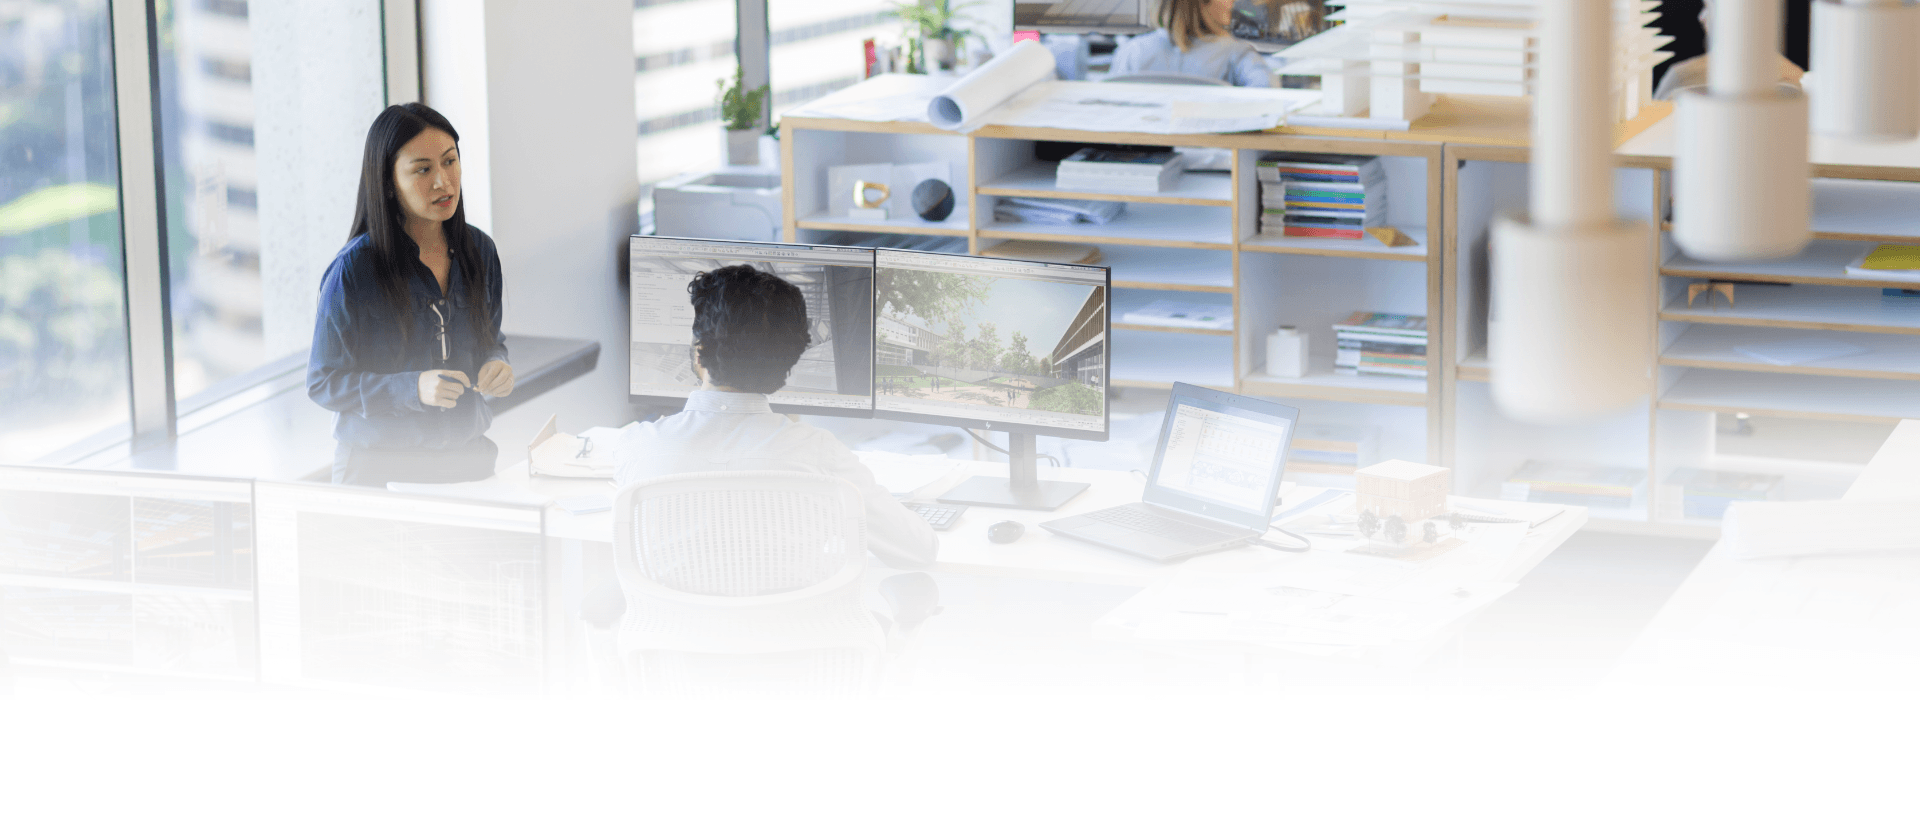
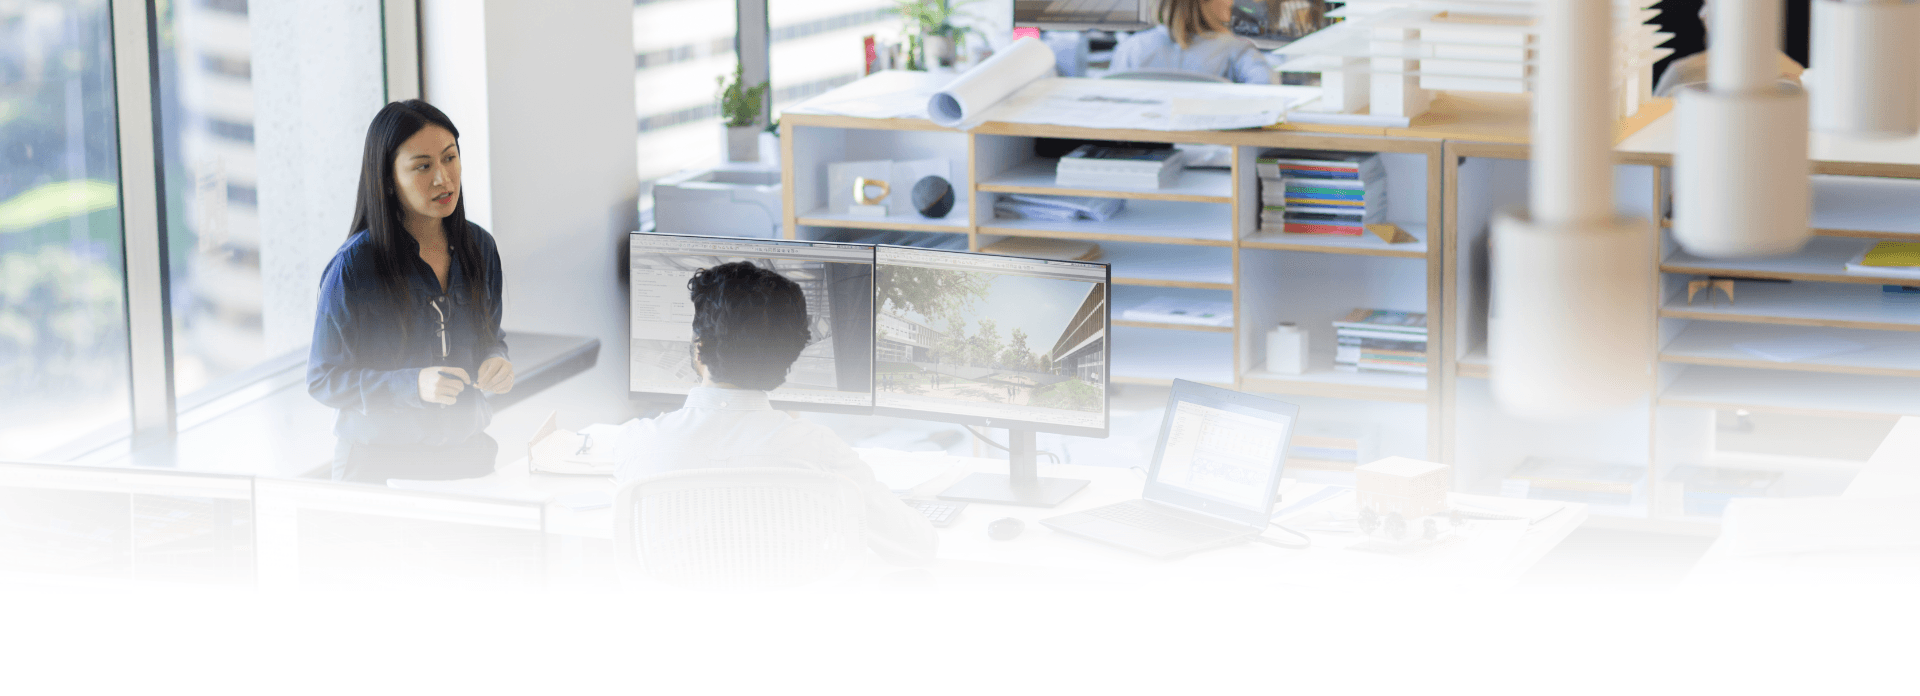
mobile

diff --git a/CSS/main.css b/CSS/main.css
@@ -446,6 +446,15 @@ input {
   justify-content: space-around;
 }
 
+#mobileaccess {
+  display: none;
+}
+
+#mobim {
+  display: none;
+  width: 60%;
+}
+
 
 /*-------HP TWO---------*/
 
@@ -538,7 +547,6 @@ input {
 /*******HP FOUR*******/
 
 .four-wrapper {
-  min-height: 500px;
   margin-top: 20px;
   z-index: 1;
   display: flex;
@@ -547,7 +555,6 @@ input {
 
 .four-wrapper img {
   width: 100%;
-  position: absolute;
 }
 
 .four-flex {
@@ -1077,6 +1084,8 @@ input {
 .products {
   display: flex;
   margin-bottom: 1rem;
+  border-radius: 4px;
+  padding-right: 20px;
 }
 
 .product-text h2 {
@@ -1159,9 +1168,7 @@ input {
   display: flex;
   justify-content: center;
   width: 100%;
-  margin-top: 100px;
   margin-bottom: 200px;
-  max-height: 13rem;
 }
 
 .requestcontent {
@@ -1600,6 +1607,7 @@ footer .norm {
 }
 
 
+
 /*=============contact---------------*/
 
 .conwrap {
@@ -1785,11 +1793,7 @@ footer .norm {
 @media only screen and (max-width: 820px) {
 
     html {
-    }
-
-
-    #birdline {
-      display: none;
+      font-size: 14px;
     }
 
     .navcontent {
@@ -1801,19 +1805,153 @@ footer .norm {
       text-align: center;
     }
 
-    #HIW {
+    header {
+      position: absolute;
+    }
+
+    header img {
+      height: 50px;
+    }
+
+    nav a {
       display: none;
     }
 
-
-    #bridge {
-      all: none;
-      margin: 0;
-      opacity: 1;
-      z-index: 4;
-      width: 100%;
-      max-width: 526px;
+    #mobileaccess {
+      display: inline;
     }
+
+    .left {
+      display: none;
+    }
+
+    .submitem {
+      margin-left: 0px;
+    }
+
+    .maincontent {
+      height: auto;
+    }
+
+    #deskim {
+      display: none;
+    }
+
+    .topimage {
+      margin-top: 40px;
+    }
+
+    .two-wrapper {
+      height: auto;
+    }
+
+    .two-text {
+      margin: 0;
+    }
+
+    .two-text h1 {
+      font-size: 1.4rem;
+    }
+
+    .two-text h3 {
+      font-size: 1rem;
+    }
+
+    .two-flex {
+      margin: 100px 8% 0 8%;
+    }
+    .mobim {
+      width: 100%;
+      display: flex;
+      justify-content: center;
+    }
+
+    #mobim {
+      display: inline;
+      margin: 60px auto 80px auto;
+    }
+
+    .three-wrapper {
+      padding-bottom: 40px;
+    }
+
+    .three-flex {
+      flex-direction: column;
+      margin-top: 40px;
+    }
+
+    .three-text-flex {
+      margin: 0 8%;
+    }
+
+
+    .three-text h1 {
+      font-size: 1.4rem;
+      margin-bottom: 36px;
+    }
+
+    .three-text h3 {
+      font-size: 1rem;
+    }
+
+    .products img {
+      height: 20px;
+    }
+
+    .product-text {
+      padding-left: 10px;
+      padding-right: 10px;
+    }
+
+    .products {
+      padding-right: 10px;
+    }
+
+    .three-flex img {
+      margin: 0 8%;
+    }
+
+    .pimage {
+      height: 300px;
+    }
+
+    .requestcontent {
+      border-top: 0px;
+    }
+
+    .requestcontent h2 {
+      font-size: 1.4rem;
+    }
+
+    fieldset {
+      padding: 0px;
+      margin: 0px;
+      display: flex;
+      flex-direction: column;
+    }
+
+    fieldset input {
+      width: 100%;
+    }
+
+    .subbtn {
+      width: 100%;
+      margin: 20px auto;
+    }
+
+    .col p {
+      margin: 0;
+      color: #235784;
+    }
+
+
+
+
+
+
+
+    /*mmm*/
+
 
     .maintext {
       margin-left: 8%;
@@ -1822,54 +1960,15 @@ footer .norm {
       text-align: center;
     }
 
-    .sec1 img {
-      display: none;
-    }
 
-    .sec1 {
-      height: 600px;
-    }
 
-    .rightphoto {
-      display: none;
-    }
 
-    #finalpic {
-      display: block;
-      width: 84%;
-      height:auto;
-      margin: 0 auto 100px auto;
-    }
 
-    .photos{
-      display: none;
-      margin: 0;
-    }
 
-    .sec2content {
-      padding: 0;
-      display: flex;
-    }
 
-    .graphwrapper1 {
-      display: none;
-    }
 
-    .para4 {
-      margin-bottom: 0;
-    }
 
-    #cross {
-      display: block;
-      height: 270px;
-      background-position: center;
-      background-image: url(../Images/cross@3x-compressor.png);
-      width: 100%;
-      border-radius: 10px 10px 0 0;
-      z-index: 10;
-      background-repeat: no-repeat;
-      background-size: cover;
-    }
+
 
     .p2 {
       min-width: 300px;
@@ -1912,7 +2011,7 @@ footer .norm {
     }
 }
 
-@media screen and (max-height: 700px) {
+/*@media screen and (max-height: 700px) {
 
   .maincontent {
     height: 350px;

diff --git a/index.html b/index.html
@@ -46,6 +46,7 @@
                     </div>
                 </form>
             </div>
+            <button id="mobileaccess" class="submitem">Get Early Access</button>
             <div class="success-wrap">
               <div class="success">
                 <img src="Images/tick.png">
@@ -62,14 +63,16 @@
 
       <div class="two-wrapper">
         <div class="two-flex">
-          <img src="Images/two-pic.png">
+          <img id="deskim" src="Images/two-pic.png">
           <div class="two-text">
             <h3>NEW VALUE</h3>
             <h1>Innovation in Technology Meets Innovation in Supply Chains</h1>
-            <p>We are innovating to help you cut costs and stay nimble in the face of rising expectations on IT reach, security and data storage.<br><br>At HP, we are committed to driving innovation, not just in our products, but also in our supply chain processes with partners.<br><br>Whether you’re transforming your organisation or tasked with improving existing IT performance, we want to enable you and your IT partners to streamline practices and focus on critical strategic tasks.
-</p>
+            <p>We are innovating to help you cut costs and stay nimble in the face of rising expectations on IT reach, security and data storage.<br><br>At HP, we are committed to driving innovation, not just in our products, but also in our supply chain processes with partners.<br><br>Whether you’re transforming your organisation or tasked with improving existing IT performance, we want to enable you and your IT partners to streamline practices and focus on critical strategic tasks.</p>
           </div>
         </div>
+      </div>
+      <div class="mobim">
+        <img id="mobim" src="Images/two-pic.png">
       </div>
 
       <div class="three-wrapper">
@@ -113,9 +116,9 @@
               </div>
             </div>
           </div>
-          <img id="product-image" src="Images/pricecurvepic.svg">
-          <img id="product-image2" src="Images/swcreditsimage.svg">
-          <img id="product-image3" src="Images/documentimage.svg">
+          <img class="pimage" id="product-image" src="Images/pricecurvepic.svg">
+          <img class="pimage" id="product-image2" src="Images/swcreditsimage.svg">
+          <img class="pimage" id="product-image3" src="Images/documentimage.svg">
         </div>
       </div>
 
@@ -145,7 +148,7 @@
           <h2>Register for exclusive early access</h2>
           <!--<h3>Automating processes that have previously caused market friction.</h3>-->
           <div id="inputform">
-            <div class="col left">
+            <div class="col">
                 <p>Get Exclusive Access</p>
                 <!-- Mailchimp: Elastos Newsletter - General - 0f5b89d273 -->
                 <form id="hero-form" class="global-form" name="mailing-list" target="hidden_iframe" onsubmit="submitted=true"
@@ -153,7 +156,7 @@
                       method="get">
                     <fieldset class="email-wrap" id="textentry">
                         <input class="inputfield" type="email" name="entry.1454564185" id="entry.1454564185" data-type="req" placeholder="Enter Email Address">
-                        <button type="submit" value="submit" class="submitem">Submit</button>
+                        <button type="submit" value="submit" class="submitem subbtn">Submit</button>
                     </fieldset>
                     <div class="form-msg">
                         <div class="thanks">Thank you! We will be in contact shortly.</div>

diff --git a/mainjq.js b/mainjq.js
@@ -78,6 +78,12 @@ $(document).ready(() => {
     }, 1000);
   });
 
+  $("#mobileaccess").click(function() {
+    $([document.documentElement, document.body]).animate({
+        scrollTop: $("#request").offset().top
+    }, 1000);
+  });
+
 
 
 
